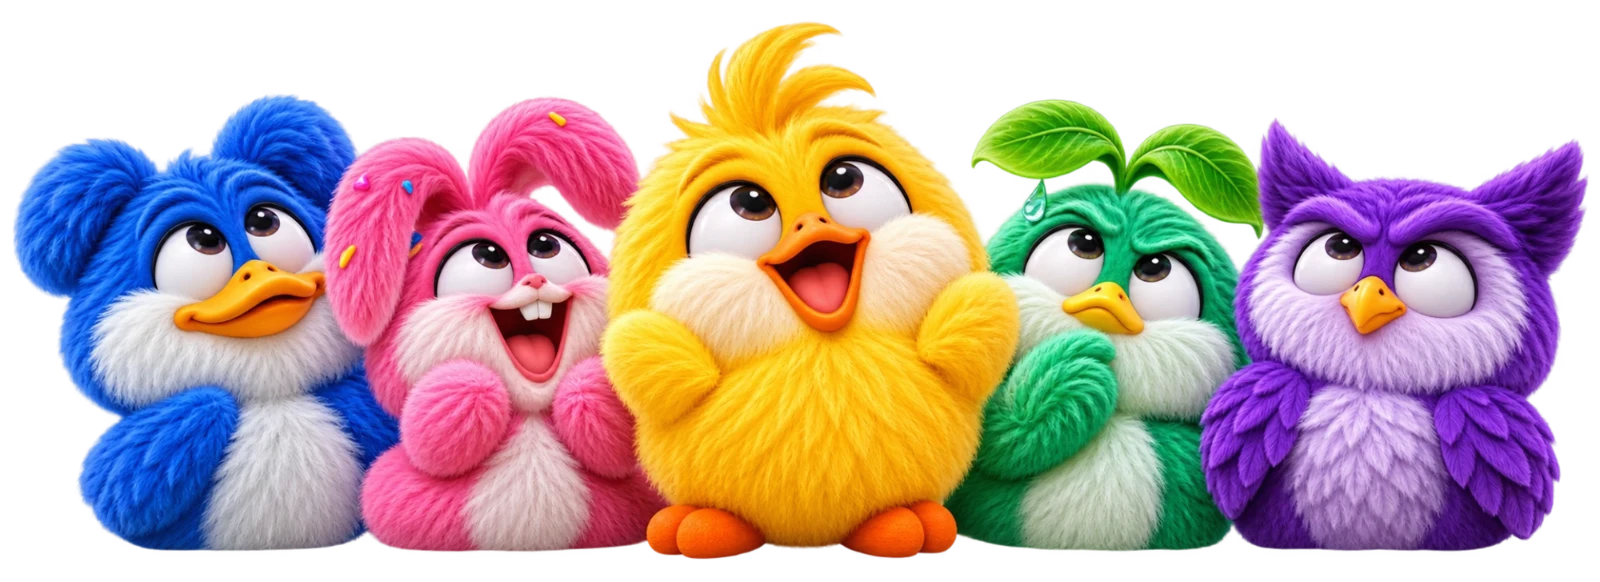
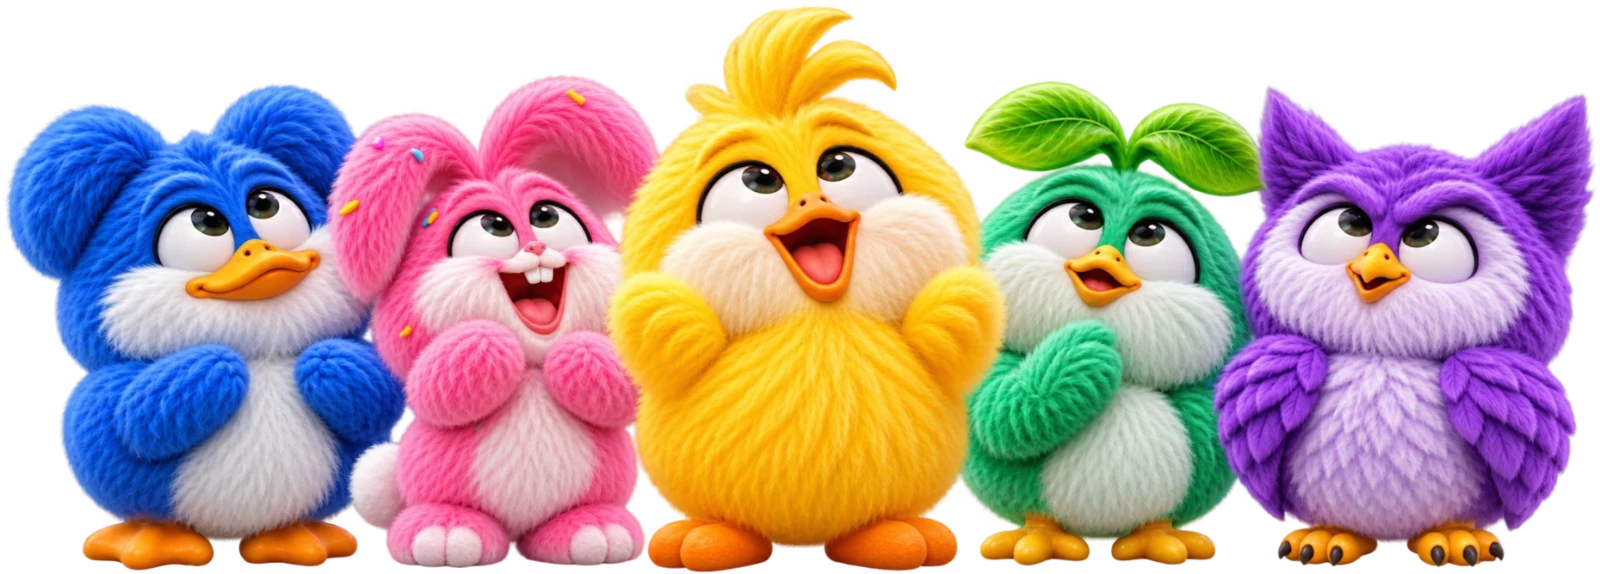
Головна: нове спільне фото героїв з лапками, стоять на підвалі (#96)
Claude-Session: https://claude.ai/code/session_016CyGGaopeDkV7u9sgJqufg

diff --git a/index.html b/index.html
@@ -246,11 +246,10 @@ footer .brand{color:#fff}footer p{max-width:28em}
   .pa .tx{width:calc(100% - 44px);max-width:none;left:22px;top:22px}
   .pa .tx b{font-size:clamp(40px,12vw,56px)}
   }
-/* фінал: усі герої разом, статично; секція на весь екран, герої внизу, лапки курча виступають на підвал */
+/* фінал: усі герої разом, статично; секція на весь екран, герої внизу, герої стоять лапками на підвалі */
 .grp{position:relative;margin:auto auto 0;padding:clamp(24px,4svh,64px) clamp(10px,3vw,40px) 0;width:min(1400px,100%);flex:none}
-.grp .pic{position:relative;width:min(100%,calc(46svh * 2.75));margin:0 auto}
-.grp img{position:relative;display:block;width:100%;height:auto;margin-bottom:-3.6%;filter:drop-shadow(0 20px 24px rgba(11,20,55,.28));pointer-events:none}
-.grp img.ft{position:absolute;left:0;top:0;margin:0;z-index:3;filter:drop-shadow(0 6px 8px rgba(11,20,55,.3))}
+.grp .pic{position:relative;width:min(100%,calc(45svh * 2.79));margin:0 auto}
+.grp img{position:relative;display:block;width:100%;height:auto;margin-bottom:-1.2%;filter:drop-shadow(0 14px 14px rgba(11,20,55,.3));pointer-events:none}
 @media(prefers-reduced-motion:reduce){.pa.on .pch,.pa.on .sp{animation:none}.pa,.pa .pbg,.pa .tx,.pa .pch,.pa .bg::after{transition:none!important}.pa{opacity:1;transform:none}}
 </style>
 </head>
@@ -347,7 +346,7 @@ footer .brand{color:#fff}footer p{max-width:28em}
 
 <section class="end">
   <div class="w"><h2>Нехай тест<br><span class="ln2">перевіряє<br>себе сам.</span></h2><a class="pill" href="#play">Зіграти ще раз<svg viewBox="0 0 24 24"><path d="M12 19V5M6 11l6-6 6 6"/></svg></a></div>
-<div class="grp"><div class="pic"><img src="assets/team/group.webp" alt="Усі герої QuizFlow: качка, кролик, курча, паросток і сова" width="1600" height="582" decoding="async"><img class="ft" src="assets/team/group-feet.webp" alt="" aria-hidden="true" width="1600" height="582" decoding="async"></div></div>
+<div class="grp"><div class="pic"><img src="assets/team/group.webp" alt="Усі герої QuizFlow: качка, кролик, курча, паросток і сова" width="1600" height="574" decoding="async"></div></div>
 </section>
 <script>
 (function(){

diff --git a/CLAUDE.md b/CLAUDE.md
@@ -11,7 +11,7 @@
 - Пошта: листи Firebase Auth — через SMTP Resend; запрошення й розсилки — Cloudflare Worker з `worker/` (ключ Resend лише в його секретах; деплой — вставити `worker/dist/worker.js` у редактор Cloudflare, після змін у `worker/src` перезібрати: `cd tests && npm run worker:bundle`; логотип у листах віддає сам воркер — після зміни `assets/email/logo-light.png` виконати `npm run worker:logo` і підняти `LOGO_V`). Див. `docs/email-setup.md`.
 - Правила бази — `database.rules.json`; після змін їх треба вручну опублікувати в консолі Firebase.
 - Іконки сайту — `assets/icons/<teacher|admin|game|test>/` (свій набір для кожної частини). Іконки лендингу quizflow.space (курча) — `assets/icons/landing/` і кореневі `/favicon.ico`, `/apple-touch-icon.png`; генерує `cd tests && npm run icons:landing` з `assets/icons/landing/chick.webp` (нове зображення: замінити файл, виконати скрипт, підняти `?v=` у `index.html`). Не малювати вручну: змінити `tests/scripts/icons.mjs`, виконати `cd tests && npm run icons`, скопіювати потрібний набір у репозиторії частин і підняти `?v=` у посиланнях на іконки в їхніх HTML.
-- Герої головної сторінки (розділ «Команда» і фінал) — `assets/team/<chick|duck|rabbit|sprout|owl>.webp` (420 px, прозорий фон); це ті самі талісмани, що в іконках частин сайту. Спільна картинка всіх п'яти — `assets/team/group.webp` (1600 px, фінал сторінки).
+- Герої головної сторінки (розділ «Команда» і фінал) — `assets/team/<chick|duck|rabbit|sprout|owl>.webp` (420 px, прозорий фон); це ті самі талісмани, що в іконках частин сайту. Спільна картинка всіх п'яти (з лапками) — `assets/team/group.webp` (1600 px, фінал сторінки).
 - Прев'ю посилань (Open Graph) — метатеги в `<head>` і картинки `assets/og/<teacher|game|test>.jpg`; в адмінці прев'ю немає. Картинки не малювати вручну: змінити `tests/scripts/og.mjs`, виконати `cd tests && npm run og`, скопіювати картинки в репозиторії частин і підняти `?v=` в `og:image`/`twitter:image` їхніх HTML.
 
 ## Процес
